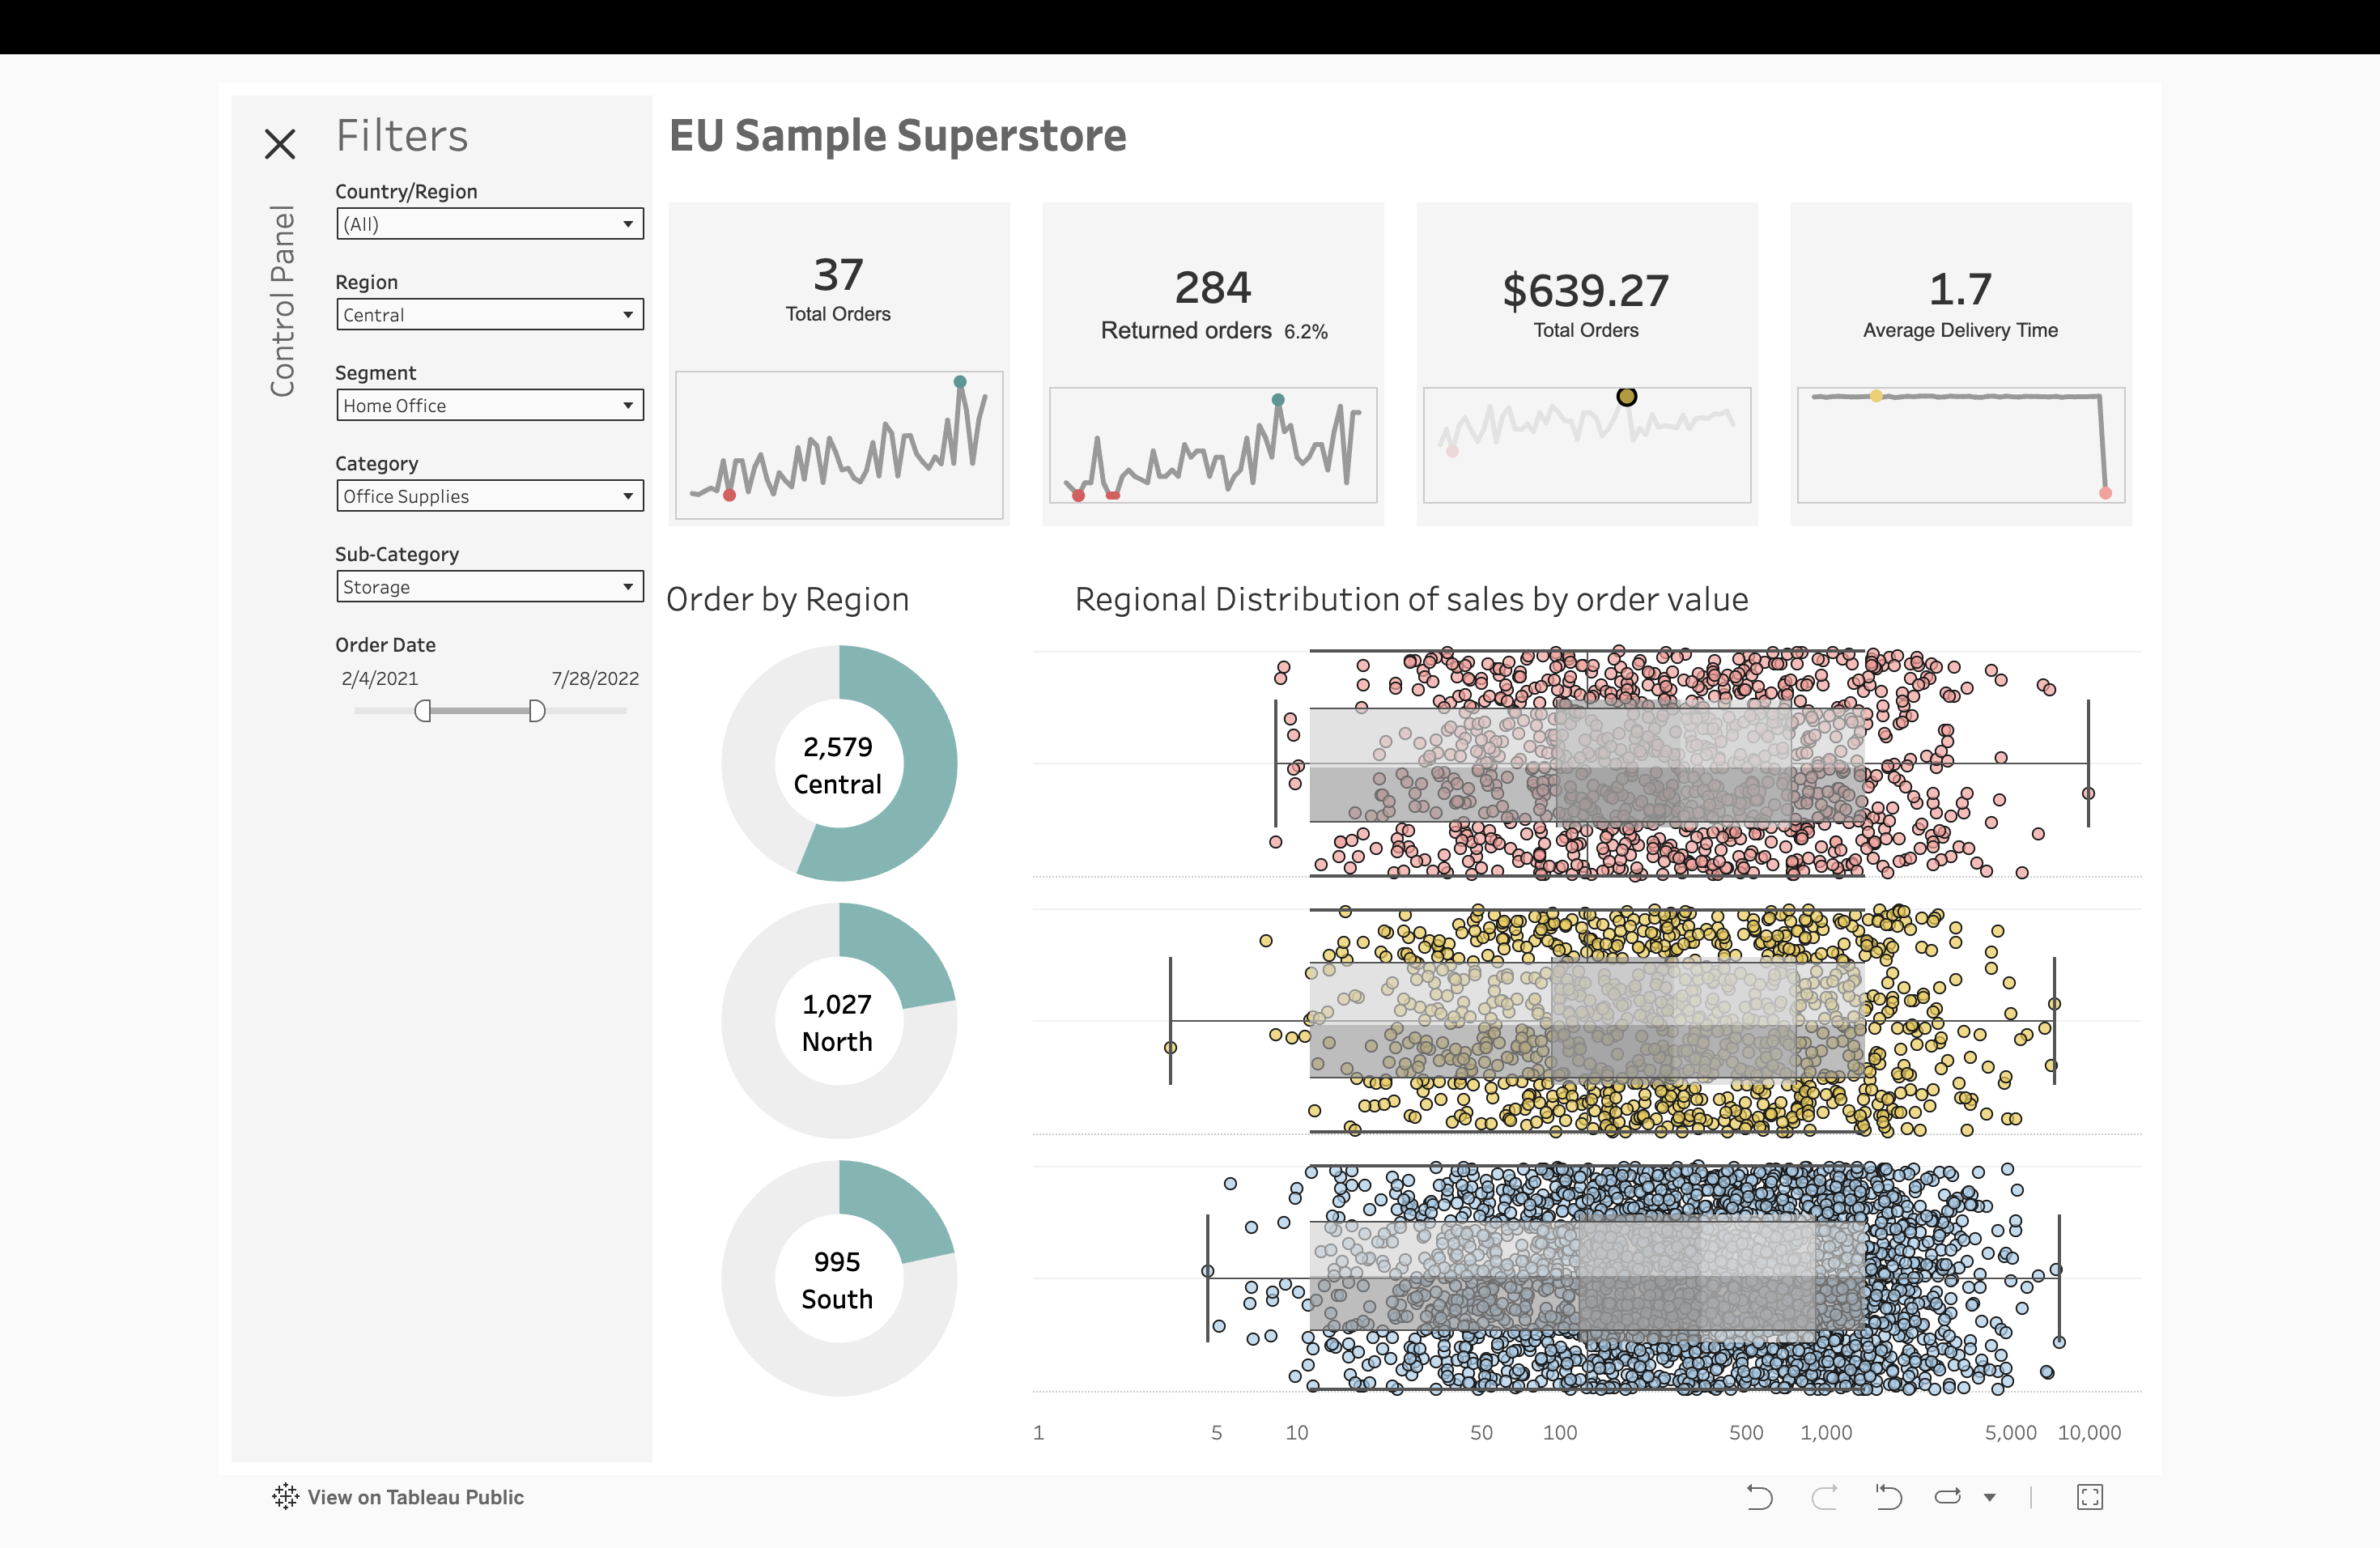
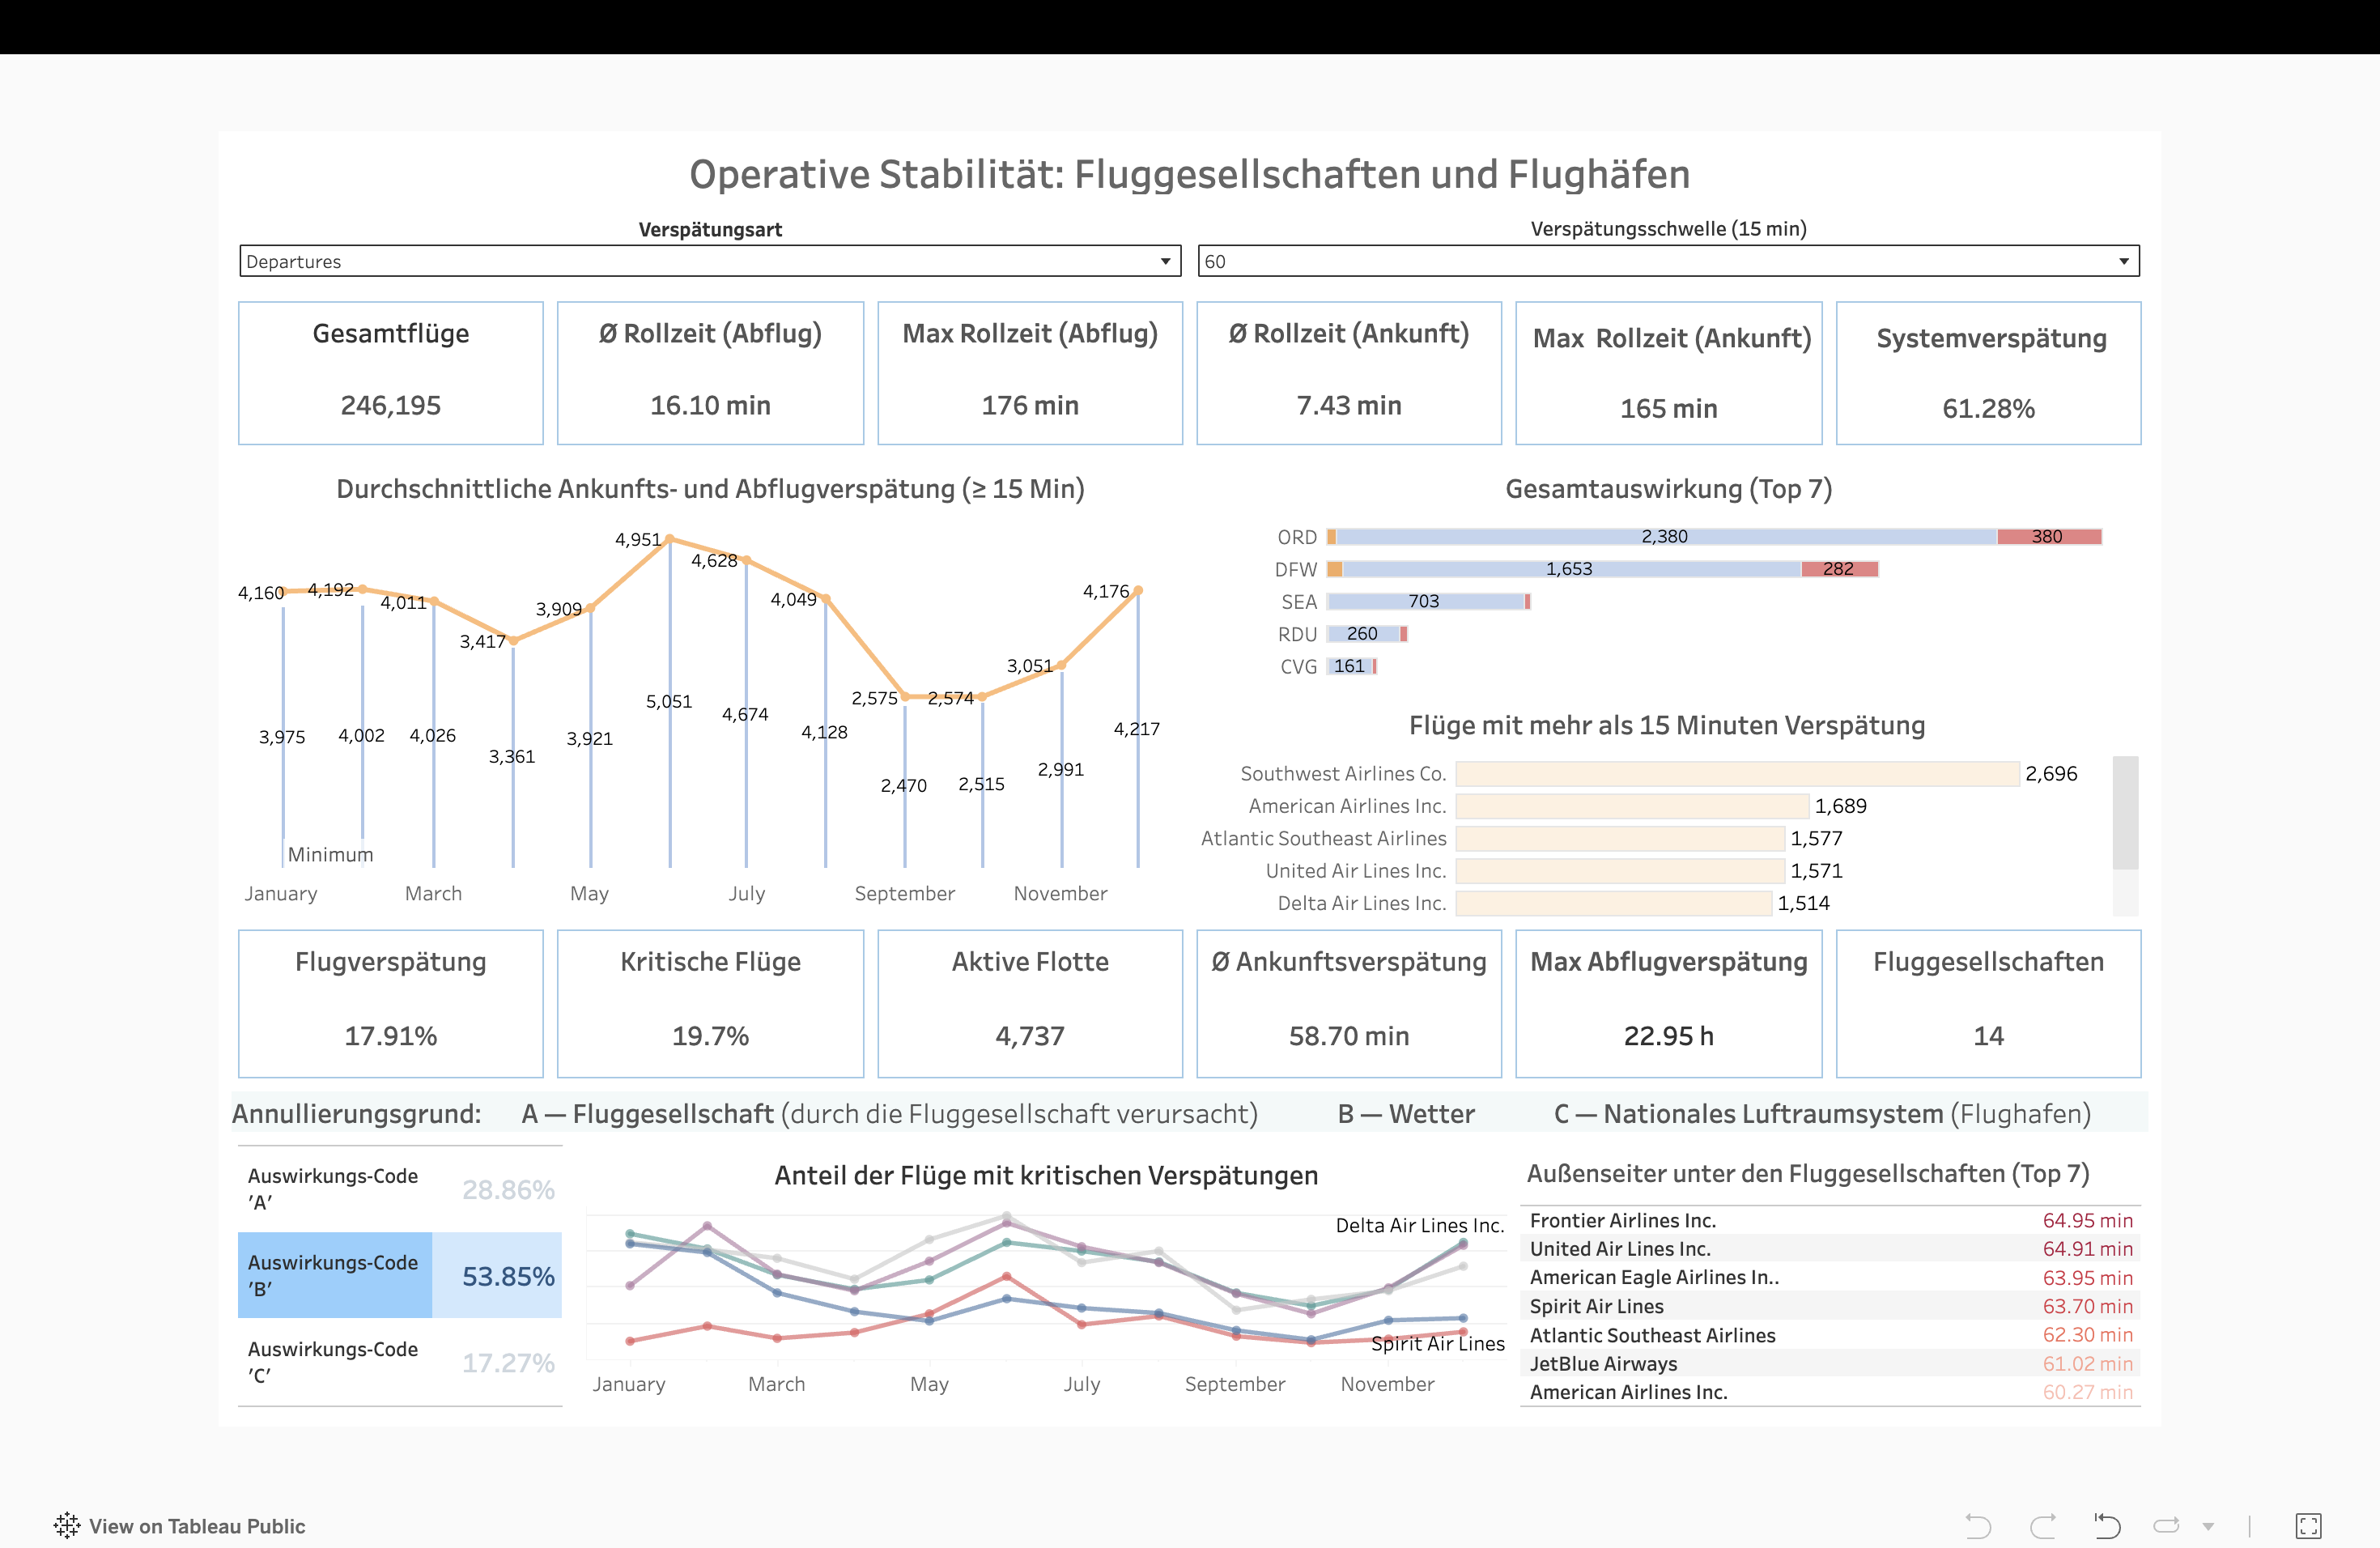
airlines-operations/

diff --git a/README.md b/README.md
@@ -1,46 +1,56 @@
-# 📊 Superstore High-Level Dashboard
+# ✈️ Operations Health: Airlines and Airports
 
-An executive-style KPI dashboard built to practice year-over-year (YoY)
-performance tracking with dynamic trend indicators.
+The final capstone project of the Tableau module — an operational
+dashboard analyzing flight delays and cancellations across US airlines
+and airports for the Ministry of Transport.
 
-🔗 **[View Live Dashboard on Tableau Public](https://public.tableau.com/app/profile/hanna.ivanova/viz/HW15_17583736697090/SuperHigh-LevelDashboard)**
+🔗 **[View Live Dashboard on Tableau Public](https://public.tableau.com/app/profile/hanna.ivanova/viz/IvanovaHannaProject_TableauGerman/OperationsHealthAirlinesandAirportsGerman)**
+
+*Note: dashboard labels are in German, as this version was built for
+German-language practice.*
 
 ## 📌 Project Overview
-This is a learning project built to practice creating an executive
-("at-a-glance") KPI dashboard — the kind of high-level summary view often
-used in business reporting to track performance without digging into raw
-data.
+Scenario: working for the Ministry of Transport, analyze completed
+flights across all airlines to compare airports and airlines against
+each other, identify outliers by number of cancellations and delays,
+find patterns, and propose improvements — for example, if certain
+airports frequently experience delays due to late aircraft turnaround,
+a potential solution could be adding buffer time to the schedule between
+arrival and departure.
 
 ## 🎯 Features
-- **4 key KPI cards**: Sales, Profit, Customers, Orders
-- Each card shows:
-  - The total value for the selected year
-  - A **trend arrow** (▲/▼) with the percentage change compared to the
-    previous year
-  - A **sparkline** comparing the current year (blue) vs. previous year
-    (grey) month by month
-- **Interactive filters**: Year, Country/Region, Region, State
-- **Two types of interactivity (Tableau Actions)**:
-  - Clicking a **month** on a sparkline highlights that specific data point
-    (current year vs. previous year) for quick month-to-month comparison
-  - Clicking a **KPI card** (Sales/Profit/Customers/Orders) opens a
-    detailed table below, broken down by Country/Region and Region,
-    showing values and YoY % change across multiple years
-- Conditional color formatting (green/red) to instantly flag growth vs.
-  decline
+- **KPI cards**: Total Flights, Average/Max Taxi Time (departure &
+  arrival), System-wide Delay Rate, Flight Delay %, Critical Flights %,
+  Active Fleet size, Average/Max Arrival & Departure Delay, number of
+  Airlines
+- **Monthly trend line** of average arrival/departure delays (≥15 min),
+  with min/max values highlighted
+- **Top 7 impact ranking** by airport (ORD, DFW, SEA, RDU, CVG, etc.) and
+  by airline, showing total flights, delayed flights, and critical delays
+- **Cancellation Reason breakdown** (Airline/Carrier, Weather, National
+  Air System) shown as a % of total cancellations — revealing that
+  weather is the single largest cause of cancellations in this dataset
+- **Adjustable delay threshold parameter** (e.g. 15 min, 60 min) to
+  redefine what counts as a "delayed" flight across the whole dashboard
+- **Interactive filters**: delay type (departures/arrivals), delay
+  threshold
 
 ## 🛠️ Tech Stack
 - Tableau Public
-- Sample Superstore dataset (Tableau's standard training dataset)
+- Flight dataset (Flights, Airlines, and Airports tables, joined by
+  airline and airport codes)
 
 ## 💡 What I Learned
-- Building calculated fields to compare a selected period against the
-  previous one (YoY comparisons)
-- Creating dynamic trend indicators (arrows + % change) driven by
-  calculated fields rather than static text
-- Designing sparkline mini-charts inside KPI cards for quick visual context
-- Using Tableau Actions (Highlight and Filter/Detail actions) to build
-  two distinct types of interactivity within the same dashboard
+- Building a dashboard from a technical specification with mandatory
+  requirements (KPIs, timeline, dual axes, parameters used instead of
+  filters)
+- Joining multiple related tables into a single data model using
+  physical joins
+- Designing parameters as dashboard-wide toggles instead of relying only
+  on filters
+- Translating raw categorical codes (e.g. cancellation reason codes)
+  into clear, labeled visualizations so the dashboard is understandable
+  without external documentation
 
 ## 📸 Preview
 ![Dashboard preview](screenshot.png)